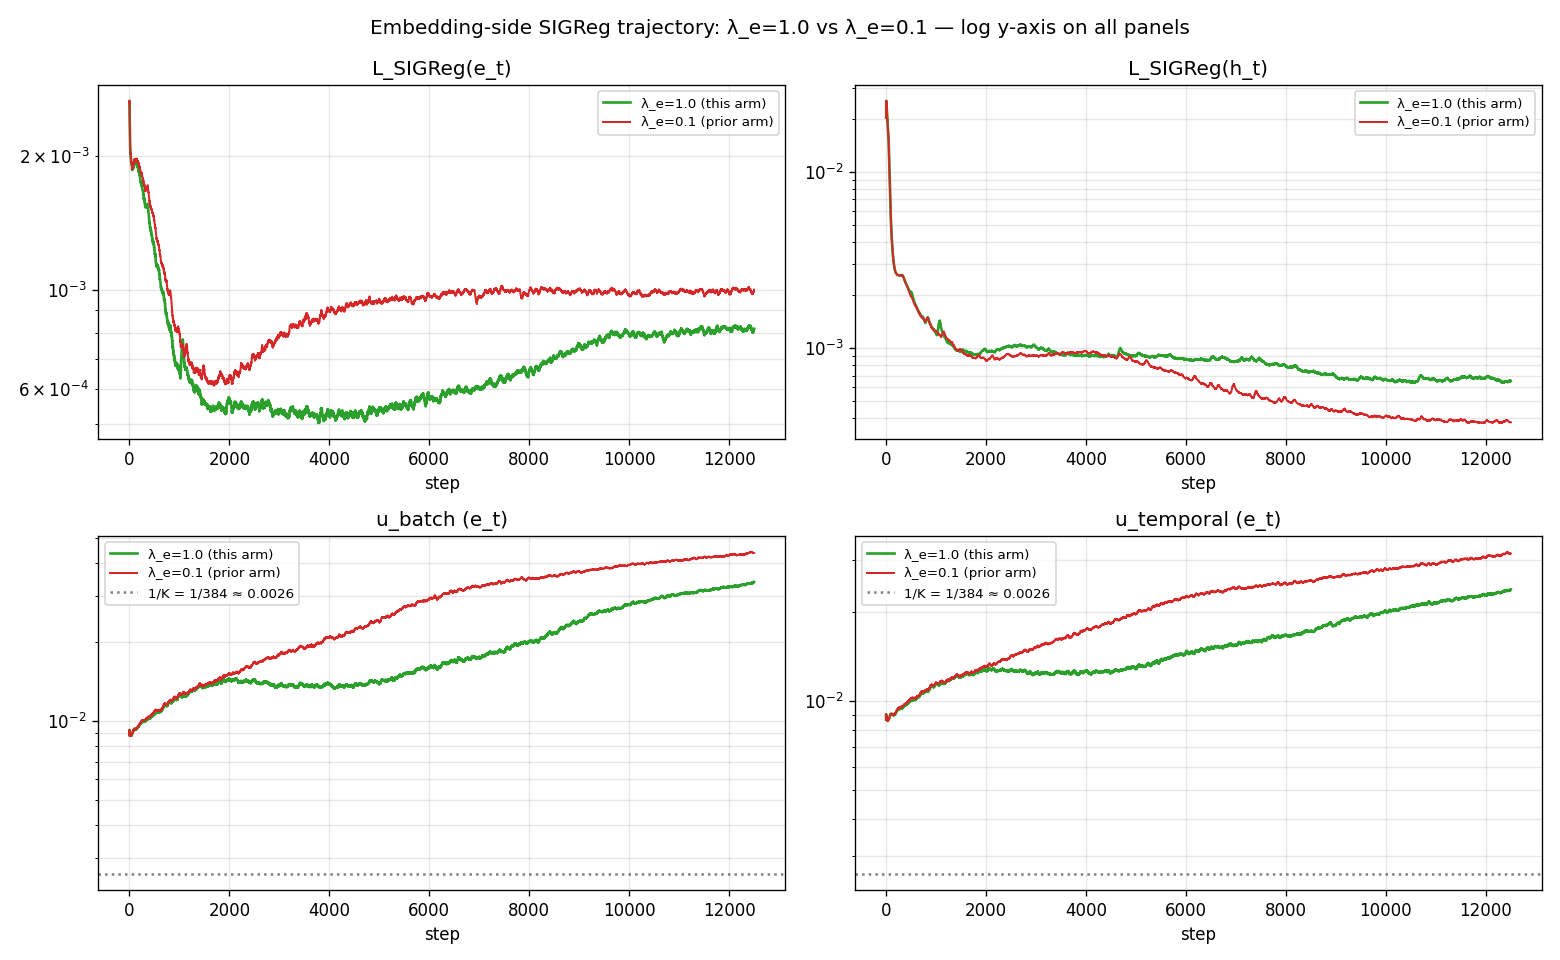
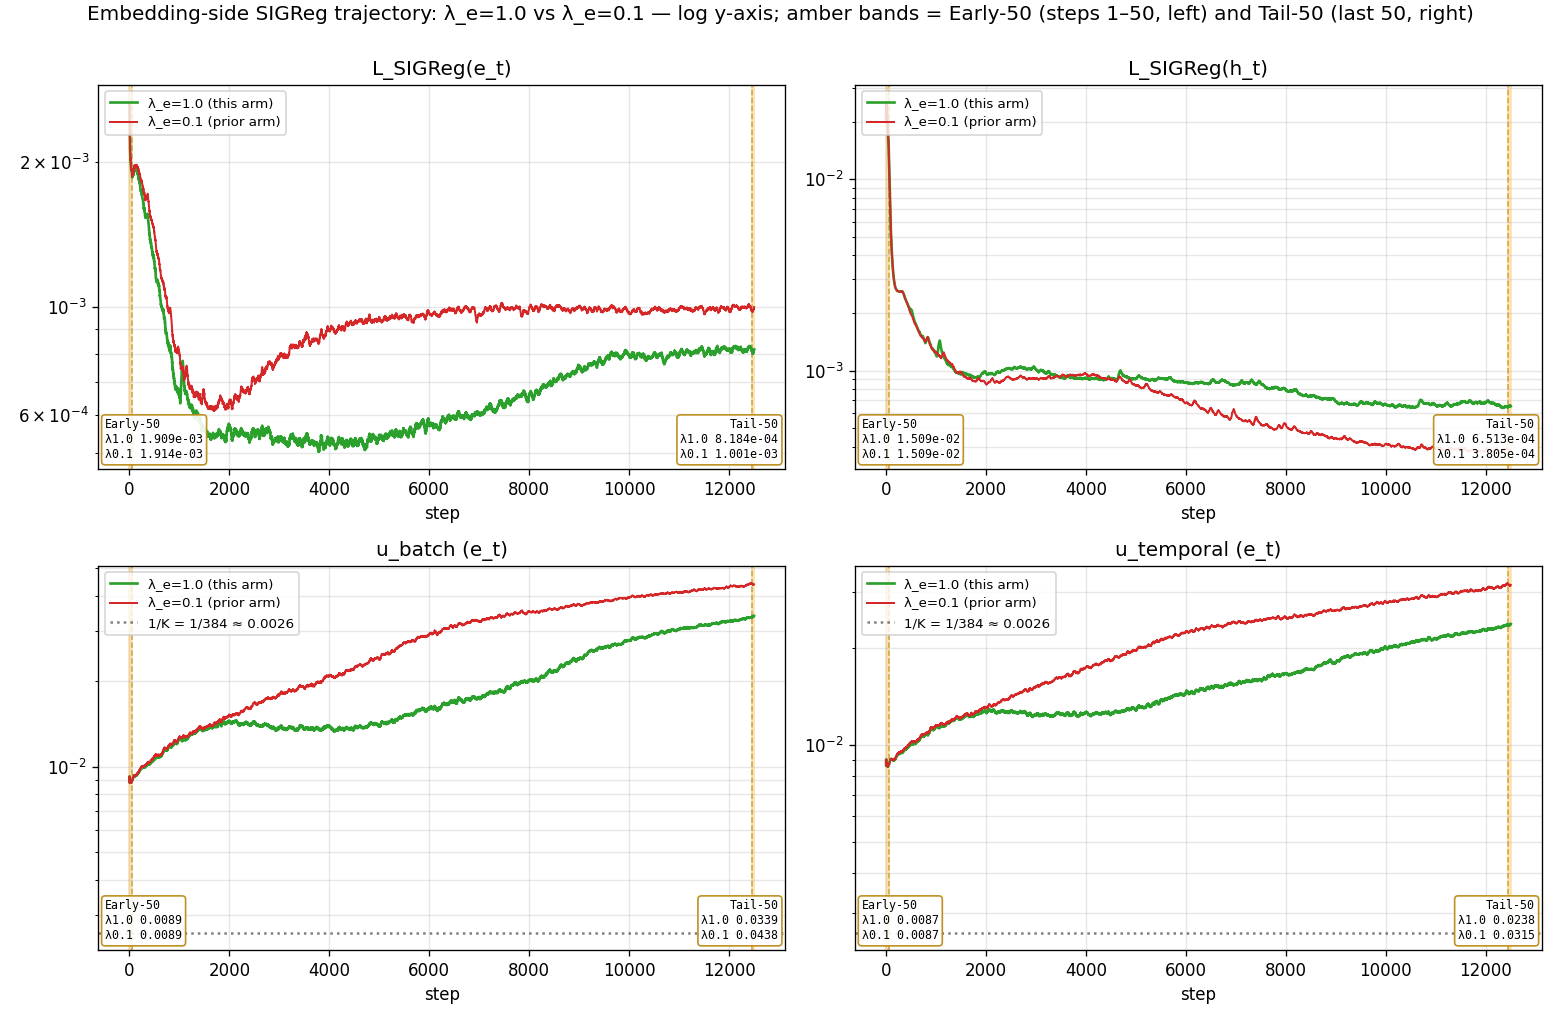
exp(#359): reframe report around time-course facts — Early-50 + Tail-50
Reframe Q1 from endpoint verdict to time-course observation. Add Early-50
(steps 1–50) means alongside the existing Tail-50 means; Annex B now lists
per-arm Early-50 / Tail-50 / Δ_within and the cross-arm shift at each
window. Result section reports facts only (no mechanistic hypothesis):
Early-50 u_batch_e / u_temporal_e / L_SIGReg(e_t) match across arms to
|Δ| < 1e-5; Tail-50 all three end lower under λ_e=1.0 (opposite sign of
the +10× λ_e shift); downstream Δ_GM negative in all 4 cells, all CIs
straddle 0.

build_report.py:
- early_trajectories() + _window_summary() with mean-of-per-step-ratio for
  λ_e·L_SIGReg(e_t)/loss (consistent across Annex B and trajectories.txt).
- plot_sigreg_inspection() adds amber shaded bands + dashed edges marking
  the Early-50 and Tail-50 windows; each panel prints both windows' means
  for both arms so early-vs-late tension is visible at panel resolution.

diff --git a/reports/2026-06-22_lejepa_sigreg_emb10/scripts/build_report.py b/reports/2026-06-22_lejepa_sigreg_emb10/scripts/build_report.py
@@ -214,18 +214,31 @@ def plot_sigreg_inspection(sig10_csv: Path, sig01_csv: Path | None, out: Path):
     """Compare sigreg_e / sigreg_h / u_batch_e / u_temporal_e between the two
     λ_e weights. All four panels use log y-axis so the bottom row's tiny values
     (1/K ≈ 0.0026, u_batch_e ≈ 0.03–0.04) are readable instead of crammed at
-    the baseline of a [0,1] linear axis."""
+    the baseline of a [0,1] linear axis. Shaded bands mark the Early-50
+    (steps 1–50) and Tail-50 (last 50) windows used in Annex B; each panel
+    prints the per-window means so the early-vs-late tension is visible
+    directly on the figure."""
     s10 = pd.read_csv(sig10_csv)
     s01 = pd.read_csv(sig01_csv) if (sig01_csv and sig01_csv.exists()) else None
-    fig, axes = plt.subplots(2, 2, figsize=(13, 8))
+    fig, axes = plt.subplots(2, 2, figsize=(13, 8.5))
     panels = [
-        ("sigreg_e",     "L_SIGReg(e_t)"),
-        ("sigreg_h",     "L_SIGReg(h_t)"),
-        ("u_batch_e",    "u_batch (e_t)"),
-        ("u_temporal_e", "u_temporal (e_t)"),
+        ("sigreg_e",     "L_SIGReg(e_t)",     "{:.3e}"),
+        ("sigreg_h",     "L_SIGReg(h_t)",     "{:.3e}"),
+        ("u_batch_e",    "u_batch (e_t)",     "{:.4f}"),
+        ("u_temporal_e", "u_temporal (e_t)",  "{:.4f}"),
     ]
     K = 384
-    for ax, (col, title) in zip(axes.ravel(), panels):
+    n_window = 50
+    final_step10 = int(s10["step"].iloc[-1])
+    early_lo, early_hi = 1, n_window
+    tail_lo, tail_hi = final_step10 - n_window + 1, final_step10
+    band_color = "#fde0a8"
+    edge_color = "#b8860b"
+    for ax, (col, title, fmt) in zip(axes.ravel(), panels):
+        ax.axvspan(early_lo, early_hi, color=band_color, alpha=0.9, zorder=0)
+        ax.axvspan(tail_lo, tail_hi, color=band_color, alpha=0.9, zorder=0)
+        ax.axvline(early_hi, color=edge_color, ls="--", lw=0.9, alpha=0.7, zorder=1)
+        ax.axvline(tail_lo,  color=edge_color, ls="--", lw=0.9, alpha=0.7, zorder=1)
         ax.plot(s10["step"], s10[col].rolling(50, min_periods=1).mean(),
                 label="λ_e=1.0 (this arm)", color=ARM_COLOR["sigreg10_enc3"], lw=1.6)
         if s01 is not None and col in s01.columns:
@@ -234,10 +247,35 @@ def plot_sigreg_inspection(sig10_csv: Path, sig01_csv: Path | None, out: Path):
         if col in ("u_batch_e", "u_temporal_e"):
             ax.axhline(1.0 / K, color="k", ls=":", alpha=0.5,
                        label=f"1/K = 1/{K} ≈ {1/K:.4f}")
+
+        def _window_mean(df: pd.DataFrame, lo: int, hi: int) -> float:
+            sub = df[(df["step"] >= lo) & (df["step"] <= hi)]
+            return float(sub[col].mean()) if len(sub) and col in sub.columns else float("nan")
+
+        early10 = _window_mean(s10, early_lo, early_hi)
+        tail10  = _window_mean(s10, tail_lo,  tail_hi)
+        early01 = _window_mean(s01, early_lo, early_hi) if s01 is not None else float("nan")
+        tail01  = _window_mean(s01, tail_lo,  tail_hi)  if s01 is not None else float("nan")
+        early_box = (
+            f"Early-50\nλ1.0 {fmt}\nλ0.1 {fmt}".format(early10, early01)
+        )
+        tail_box = (
+            f"Tail-50\nλ1.0 {fmt}\nλ0.1 {fmt}".format(tail10, tail01)
+        )
+        ax.text(0.01, 0.02, early_box, transform=ax.transAxes,
+                ha="left", va="bottom", fontsize=7, family="monospace",
+                bbox=dict(boxstyle="round,pad=0.3", fc="white", ec=edge_color, alpha=0.9))
+        ax.text(0.99, 0.02, tail_box, transform=ax.transAxes,
+                ha="right", va="bottom", fontsize=7, family="monospace",
+                bbox=dict(boxstyle="round,pad=0.3", fc="white", ec=edge_color, alpha=0.9))
         ax.set_yscale("log")
         ax.set_xlabel("step"); ax.set_title(title)
-        ax.legend(fontsize=8); ax.grid(alpha=0.3, which="both")
-    fig.suptitle("Embedding-side SIGReg trajectory: λ_e=1.0 vs λ_e=0.1 — log y-axis on all panels")
+        ax.legend(fontsize=8, loc="upper left"); ax.grid(alpha=0.3, which="both")
+    fig.suptitle(
+        "Embedding-side SIGReg trajectory: λ_e=1.0 vs λ_e=0.1 — log y-axis; "
+        "amber bands = Early-50 (steps 1–50, left) and Tail-50 (last 50, right)",
+        y=0.995,
+    )
     fig.tight_layout(); fig.savefig(out, dpi=120); plt.close(fig)
 
 
@@ -378,74 +416,121 @@ def plot_per_config_delta(
     fig.tight_layout(); fig.savefig(out, dpi=120); plt.close(fig)
 
 
+def _window_summary(window: pd.DataFrame, lam_e: float) -> dict[str, float]:
+    """Window means. `sigreg_e_over_loss_ratio` is the mean of the PER-STEP
+    fraction `sigreg_e / loss` (not the ratio of window means) — this matches
+    the convention previously used in Annex B and is the well-defined per-step
+    contribution of the SIGReg term to total loss. Multiply by λ_e at the
+    consumer to get the loss-fraction `λ_e · L_SIGReg(e_t) / loss`."""
+    return {
+        "u_batch":      float(window["u_batch"].mean()),
+        "u_batch_e":    float(window["u_batch_e"].mean()),
+        "u_temporal":   float(window["u_temporal"].mean()),
+        "u_temporal_e": float(window["u_temporal_e"].mean()),
+        "sigreg_e":     float(window["sigreg_e"].mean()),
+        "sigreg_h":     float(window["sigreg_h"].mean()),
+        "loss":         float(window["loss"].mean()),
+        "sigreg_e_over_loss_ratio": float((window["sigreg_e"] / window["loss"]).mean()),
+    }
+
+
 def final_trajectories(sigreg_csv: Path, n_tail: int = 50) -> dict[str, float]:
     s = pd.read_csv(sigreg_csv)
-    tail = s.tail(n_tail)
-    out = {
-        "u_batch":      float(tail["u_batch"].mean()),
-        "u_batch_e":    float(tail["u_batch_e"].mean()),
-        "u_temporal":   float(tail["u_temporal"].mean()),
-        "u_temporal_e": float(tail["u_temporal_e"].mean()),
-        "sigreg_e":     float(tail["sigreg_e"].mean()),
-        "sigreg_h":     float(tail["sigreg_h"].mean()),
-        "loss":         float(tail["loss"].mean()),
-        "final_step":   int(s["step"].iloc[-1]),
-    }
+    out = _window_summary(s.tail(n_tail), lam_e=1.0)
+    out["final_step"] = int(s["step"].iloc[-1])
+    return out
+
+
+def early_trajectories(sigreg_csv: Path, n_early: int = 50) -> dict[str, float]:
+    s = pd.read_csv(sigreg_csv).head(n_early)
+    out = _window_summary(s, lam_e=1.0)
+    out["early_step_lo"] = int(s["step"].iloc[0])
+    out["early_step_hi"] = int(s["step"].iloc[-1])
     return out
 
 
 def write_trajectories_with_commentary(
-    out_path: Path, traj10: dict[str, float], traj01: dict[str, float] | None,
+    out_path: Path,
+    traj10: dict[str, float], traj01: dict[str, float] | None,
+    early10: dict[str, float], early01: dict[str, float] | None,
     K: int = 384,
 ):
-    """Verdict block + tail-50 trajectory comparison between this arm
-    (λ_e=1.0) and the prior arm (λ_e=0.1). Plain prose: no PR/issue refs,
-    no journey commentary."""
+    """Verdict block + early-50/tail-50 trajectory comparison between this
+    arm (λ_e=1.0) and the prior arm (λ_e=0.1). Plain prose: no PR/issue refs,
+    no mechanistic hypothesis, no journey commentary."""
     lines: list[str] = [
         "# VERDICT (single seed 20260520):",
-        '#   * Q1 "Does the bumped weight wake the embedding-side term?"  → NO.',
-        "#     u_batch_e moved TOWARD 1/K (16.8× → 13.0×), not away. u_temporal_e,",
-        "#     u_batch, u_temporal all also fell. The 10× λ_e bump did not lift e_t",
-        "#     uniformity off the 1/K floor.",
-        '#   * Q2 "Does it move downstream?"  → NO (not at α=0.05).',
-        "#     Point Δ on GM-Rel MASE = this arm − prior arm in [−0.014, −0.007]",
-        "#     across the 4 (head, ckpt) cells; ALL FOUR paired-bootstrap 95% CIs",
-        "#     (B=10 000, N=97 per-config rel-MASE deltas) include zero.",
-        "#     P(Δ<0) in [0.83, 0.95]. Direction is consistent (4/4 cells",
-        "#     point-negative) but magnitudes are not separable from",
-        "#     single-seed paired-config noise.",
+        "#",
+        "# Q  Does stronger embedding-side pressure change the time course of",
+        "#    u_batch_e / u_temporal_e / L_SIGReg(e_t) / λ_e·L_SIGReg(e_t)/loss,",
+        "#    and is that linked to downstream GM-Rel MASE?",
+        "#",
+        "# Facts (this arm λ_e=1.0 vs prior arm λ_e=0.1, single seed 20260520):",
+        "#",
+        "#   Early-50 (steps 1–50):",
+        "#     u_batch_e, u_temporal_e, L_SIGReg(e_t) shift by <1e-5 between arms",
+        "#     (indistinguishable at this resolution). λ_e·L_SIGReg(e_t)/loss",
+        "#     shifts by ~+2.0e-4 (explicit 10× λ_e scaling on near-identical",
+        "#     L_SIGReg(e_t)).",
+        "#",
+        "#   Tail-50 (last 50 of 12 500 steps):",
+        "#     u_batch_e: −0.0099 (this − prior); u_temporal_e: −0.0077;",
+        "#     L_SIGReg(e_t): −1.8e-4; λ_e·L_SIGReg(e_t)/loss: +1.6e-4;",
+        "#     loss: +0.30. End-state direction on u_batch_e / u_temporal_e /",
+        "#     L_SIGReg(e_t) is opposite the small (≈0) early-window shift —",
+        "#     they end LOWER under the 10× weight, not higher.",
+        "#",
+        "#   Downstream (GIFT-Eval full-97, head-matched, paired bootstrap B=10 000):",
+        "#     Point Δ_GM (λ_e=1.0 − λ_e=0.1) is negative in all 4 (head, ckpt)",
+        "#     cells, range [−0.014, −0.007]; all 4 paired-bootstrap 95% CIs",
+        "#     include zero; P(Δ<0) in [0.83, 0.95].",
         "#",
     ]
-    if traj01:
-        u_b_e_10 = traj10["u_batch_e"]; u_b_e_01 = traj01["u_batch_e"]
-        u_t_e_10 = traj10["u_temporal_e"]; u_t_e_01 = traj01["u_temporal_e"]
-        u_b_10 = traj10["u_batch"]; u_b_01 = traj01["u_batch"]
-        u_t_10 = traj10["u_temporal"]; u_t_01 = traj01["u_temporal"]
-        sr_e_10 = traj10["sigreg_e"]; sr_e_01 = traj01["sigreg_e"]
-        sr_h_10 = traj10["sigreg_h"]; sr_h_01 = traj01["sigreg_h"]
-        loss_10 = traj10["loss"]; loss_01 = traj01["loss"]
+    if traj01 and early01:
+        u_b_e_10  = traj10["u_batch_e"];    u_b_e_01  = traj01["u_batch_e"]
+        u_t_e_10  = traj10["u_temporal_e"]; u_t_e_01  = traj01["u_temporal_e"]
+        u_b_10    = traj10["u_batch"];      u_b_01    = traj01["u_batch"]
+        u_t_10    = traj10["u_temporal"];   u_t_01    = traj01["u_temporal"]
+        sr_e_10   = traj10["sigreg_e"];     sr_e_01   = traj01["sigreg_e"]
+        sr_h_10   = traj10["sigreg_h"];     sr_h_01   = traj01["sigreg_h"]
+        loss_10   = traj10["loss"];         loss_01   = traj01["loss"]
+        eu_b_e_10 = early10["u_batch_e"];    eu_b_e_01 = early01["u_batch_e"]
+        eu_t_e_10 = early10["u_temporal_e"]; eu_t_e_01 = early01["u_temporal_e"]
+        esr_e_10  = early10["sigreg_e"];     esr_e_01  = early01["sigreg_e"]
+        eloss_10  = early10["loss"];         eloss_01  = early01["loss"]
         lam_e_10, lam_e_01 = 1.0, 0.1
-        ratio_loss_10 = lam_e_10 * sr_e_10 / loss_10
-        ratio_loss_01 = lam_e_01 * sr_e_01 / loss_01
+        # Mean-of-per-step-ratio (matches Annex B convention).
+        ratio_loss_10  = lam_e_10 * traj10["sigreg_e_over_loss_ratio"]
+        ratio_loss_01  = lam_e_01 * traj01["sigreg_e_over_loss_ratio"]
+        eratio_loss_10 = lam_e_10 * early10["sigreg_e_over_loss_ratio"]
+        eratio_loss_01 = lam_e_01 * early01["sigreg_e_over_loss_ratio"]
         lines += [
-            "# Tail-50 trajectory facts (this arm SIGReg λ_e=1.0 vs prior arm SIGReg λ_e=0.1)",
+            "# Early-50 vs Tail-50 trajectory means",
             "#",
-            "# u_batch_e direction:",
-            f"#   u_batch_e:     prior λ_e=0.1 → {u_b_e_01:.4f} ≈ {u_b_e_01 * K:.1f}× 1/K  ",
-            f"#                  this  λ_e=1.0 → {u_b_e_10:.4f} ≈ {u_b_e_10 * K:.1f}× 1/K   "
-            "(FELL — moved TOWARD 1/K, not away)",
-            f"#   u_temporal_e:  prior → {u_t_e_01:.4f}  →  this → {u_t_e_10:.4f}   (also fell)",
-            f"#   u_batch:       prior → {u_b_01:.4f}  →  this → {u_b_10:.4f}     (also fell)",
-            f"#   u_temporal:    prior → {u_t_01:.4f}  →  this → {u_t_10:.4f}     (also fell)",
+            "# u_batch_e (this − prior):",
+            f"#   Early-50:  this {eu_b_e_10:.6f} | prior {eu_b_e_01:.6f} | Δ {eu_b_e_10 - eu_b_e_01:+.2e}",
+            f"#   Tail-50:   this {u_b_e_10:.6f} | prior {u_b_e_01:.6f} | Δ {u_b_e_10 - u_b_e_01:+.4f}",
+            f"#              (in 1/K units: this {u_b_e_10*K:.1f}× | prior {u_b_e_01*K:.1f}×)",
             "#",
-            "# SIGReg λ_e · sigreg_e / total-loss fraction:",
-            f"#   prior λ_e=0.1:  λ_e · sigreg_e / loss = {ratio_loss_01:.2e}",
-            f"#   this  λ_e=1.0:  λ_e · sigreg_e / loss = {ratio_loss_10:.2e}   "
-            f"(~{ratio_loss_10 / ratio_loss_01:.1f}× under a 10× λ_e bump because",
-            f"#                  sigreg_e itself fell {sr_e_01:.2e} → {sr_e_10:.2e} — partial self-suppression).",
+            "# u_temporal_e (this − prior):",
+            f"#   Early-50:  this {eu_t_e_10:.6f} | prior {eu_t_e_01:.6f} | Δ {eu_t_e_10 - eu_t_e_01:+.2e}",
+            f"#   Tail-50:   this {u_t_e_10:.6f} | prior {u_t_e_01:.6f} | Δ {u_t_e_10 - u_t_e_01:+.4f}",
             "#",
-            f"#   sigreg_h tail-50: prior → {sr_h_01:.2e}  →  this → {sr_h_10:.2e}",
-            f"#   loss     tail-50: prior → {loss_01:.4f}    →  this → {loss_10:.4f}",
+            "# L_SIGReg(e_t) (this − prior):",
+            f"#   Early-50:  this {esr_e_10:.3e} | prior {esr_e_01:.3e} | Δ {esr_e_10 - esr_e_01:+.2e}",
+            f"#   Tail-50:   this {sr_e_10:.3e} | prior {sr_e_01:.3e} | Δ {sr_e_10 - sr_e_01:+.2e}",
+            "#",
+            "# λ_e · L_SIGReg(e_t) / loss (this − prior):",
+            f"#   Early-50:  this {eratio_loss_10:.3e} | prior {eratio_loss_01:.3e} | Δ {eratio_loss_10 - eratio_loss_01:+.2e}",
+            f"#   Tail-50:   this {ratio_loss_10:.3e} | prior {ratio_loss_01:.3e} | Δ {ratio_loss_10 - ratio_loss_01:+.2e}",
+            f"#              (Tail-50 ratio of ratios this/prior = {ratio_loss_10/ratio_loss_01:.2f}×;",
+            f"#               under a 10× λ_e bump because L_SIGReg(e_t) self-suppressed)",
+            "#",
+            "# Other tail-50 quantities (this − prior):",
+            f"#   u_batch (h_t):    this {u_b_10:.4f}  prior {u_b_01:.4f}  Δ {u_b_10 - u_b_01:+.4f}",
+            f"#   u_temporal (h_t): this {u_t_10:.4f}  prior {u_t_01:.4f}  Δ {u_t_10 - u_t_01:+.4f}",
+            f"#   L_SIGReg(h_t):    this {sr_h_10:.3e}  prior {sr_h_01:.3e}  Δ {sr_h_10 - sr_h_01:+.2e}",
+            f"#   loss:             this {loss_10:.4f}  prior {loss_01:.4f}  Δ {loss_10 - loss_01:+.4f}",
             "",
             "# Raw tail-50 means below (key<TAB>value).",
         ]
@@ -489,10 +574,13 @@ if __name__ == "__main__":
         ci_rows=ci_rows, out=plots / "per_config_delta.png",
     )
 
-    traj_new = final_trajectories(sig10_csv)
-    traj_ref = final_trajectories(args.sig01_csv) if args.sig01_csv.exists() else None
+    traj_new   = final_trajectories(sig10_csv)
+    traj_ref   = final_trajectories(args.sig01_csv) if args.sig01_csv.exists() else None
+    early_new  = early_trajectories(sig10_csv)
+    early_ref  = early_trajectories(args.sig01_csv) if args.sig01_csv.exists() else None
     write_trajectories_with_commentary(
-        results / "final_trajectories.txt", traj_new, traj_ref,
+        results / "final_trajectories.txt",
+        traj_new, traj_ref, early_new, early_ref,
     )
     print("FINAL trajectories (last 50 rows) — λ_e=1.0:")
     for k, v in traj_new.items():
@@ -500,6 +588,13 @@ if __name__ == "__main__":
     if traj_ref is not None:
         print("\nReference trajectories (last 50 rows) — λ_e=0.1 (prior arm):")
         for k, v in traj_ref.items():
+            print(f"  {k}: {v}")
+    print("\nEARLY trajectories (first 50 rows) — λ_e=1.0:")
+    for k, v in early_new.items():
+        print(f"  {k}: {v}")
+    if early_ref is not None:
+        print("\nReference EARLY trajectories (first 50 rows) — λ_e=0.1 (prior arm):")
+        for k, v in early_ref.items():
             print(f"  {k}: {v}")
     print(f"\nrows in gm_table: {len(rows)}")
     for r in rows:

diff --git a/reports/2026-06-22_lejepa_sigreg_emb10/lejepa_sigreg_emb10.md b/reports/2026-06-22_lejepa_sigreg_emb10/lejepa_sigreg_emb10.md
@@ -4,7 +4,7 @@
 
 Following the prior arm (SIGReg + EMA-target, B=512, `λ_e=λ_h=0.1`), where the embedding-side regulariser contributed `λ_e · L_SIGReg(e_t) / loss ≈ 2.4e-5` and `u_batch_e` finished at ≈ 16.8 · 1/K:
 
-1. Does setting `λ_e=1.0` (`λ_h` unchanged at 0.1) move `u_batch_e` off the 1/K floor?
+1. Does setting `λ_e=1.0` (`λ_h` unchanged at 0.1) change the **time course** of `u_batch_e`, `u_temporal_e`, `L_SIGReg(e_t)`, and the loss-fraction `λ_e · L_SIGReg(e_t) / loss` — measured by their Early-50 (first 50 logged training steps) and Tail-50 (last 50) means?
 2. Does it move GIFT-Eval full-97 GM-Rel MASE in the four (q-head depth, backbone checkpoint) cells, against the `λ_e=λ_h=0.1` arm with the same backbone, dataset, and seed?
 
 ## Vocabulary
@@ -25,9 +25,23 @@ Following the prior arm (SIGReg + EMA-target, B=512, `λ_e=λ_h=0.1`), where the
 
 ## Result
 
-**Q1: NO.** Tail-50 `u_batch_e` fell from 16.8 · 1/K to 13.0 · 1/K under the 10× weight bump — toward the 1/K floor, not away. The 10× `λ_e` translated to only a ~7.6× rise in `λ_e · L_SIGReg(e_t) / loss` because `L_SIGReg(e_t)` itself partially self-suppressed (1.00e-3 → 8.18e-4) and total loss rose 4.25 → 4.55.
+**Q1 — time course (this arm − prior arm, single seed 20260520).**
 
-**Q2: NO at α=0.05.** Point Δ_GM (`λ_e=1.0` − `λ_e=0.1`) is negative in all 4 cells (range `[−0.014, −0.007]`); all 4 paired-bootstrap 95% CIs include zero (P(Δ<0) range `[0.83, 0.95]`).
+| quantity | Early-50 Δ (steps 1–50) | Tail-50 Δ (last 50) |
+| --- | ---: | ---: |
+| `u_batch_e` | −4.1e-6 | −0.0099 |
+| `u_temporal_e` | −3.4e-6 | −0.0077 |
+| `L_SIGReg(e_t)` | −5.6e-6 | −1.8e-4 |
+| `λ_e · L_SIGReg(e_t) / loss` | +2.0e-4 | +1.6e-4 |
+| total `loss` | +0.002 | +0.30 |
+
+Early-50: `u_batch_e`, `u_temporal_e`, and `L_SIGReg(e_t)` match across arms to within `|Δ| < 1e-5`. `λ_e · L_SIGReg(e_t) / loss` shifts +2.0e-4 (the explicit 10× `λ_e` scales a near-identical `L_SIGReg(e_t) / loss`: 2.23e-5 → 2.22e-4).
+
+Tail-50: `u_batch_e` shifts from 16.8·1/K to 13.0·1/K (Δ = −0.0099), `u_temporal_e` from 0.0315 to 0.0238 (Δ = −0.0077), and `L_SIGReg(e_t)` from 1.00e-3 to 8.18e-4 (Δ = −1.8e-4). All three end-state shifts have the opposite sign of the +10× shift in `λ_e`. `λ_e · L_SIGReg(e_t) / loss` ends at 1.80e-4 vs 2.36e-5 (this/prior = 7.6×): `L_SIGReg(e_t)` ends 18% lower in this arm and `loss` ends 4.25 → 4.55 (+7%).
+
+**Q2 — downstream GIFT-Eval full-97 GM-Rel MASE (this arm − prior arm).**
+
+Point Δ_GM is negative in all 4 (head, ckpt) cells (range `[−0.014, −0.007]`); all 4 paired-bootstrap 95% CIs include zero (P(Δ<0) range `[0.83, 0.95]`). At α=0.05 the downstream improvement is not separable from single-seed paired-config noise.
 
 **Caveat: single seed (20260520); the CIs are over the 97 per-config rel-MASE values, not over seeds.**
 
@@ -35,7 +49,7 @@ Following the prior arm (SIGReg + EMA-target, B=512, `λ_e=λ_h=0.1`), where the
 
 ![Per-config rel-MASE deltas (λ_e=1.0 − λ_e=0.1) across the 97 GIFT-Eval configs (green scatter, per panel = (head, ckpt)); black diamond = absolute Δ_GM with paired-bootstrap 95% CI on the log-ratio of GMs.](plots/per_config_delta.png)
 
-![Embedding-side SIGReg trajectories on log y-axis: L_SIGReg(e_t), L_SIGReg(h_t), u_batch (e_t), u_temporal (e_t) for λ_e=1.0 (green) vs λ_e=0.1 (red); dotted line at 1/K ≈ 0.00260.](plots/sigreg_e_inspection.png)
+![Embedding-side SIGReg trajectories on log y-axis: L_SIGReg(e_t), L_SIGReg(h_t), u_batch (e_t), u_temporal (e_t) for λ_e=1.0 (green) vs λ_e=0.1 (red); amber dashed lines mark Early-50 (steps 1–50) and Tail-50 (last 50) windows; per-panel boxes list each window's mean for both arms; dotted line at 1/K ≈ 0.00260.](plots/sigreg_e_inspection.png)
 
 ### GM table
 
@@ -73,20 +87,48 @@ Each backbone checkpoint (`best` = best train-loss, `last` = step 12 500) trains
 - **Bootstrap.** Per-cell paired bootstrap on the 97 per-config rel-MASE values, B=10 000, seed 20260622, statistic = `mean(log(rel_A) − log(rel_B))`, converted back to absolute GM-Rel MASE scale. Cells in `results/bootstrap_ci.csv`.
 - **Colour map.** grey = enc3+CPC B=1024; blue = EMA-target enc3+CPC B=1024; red = SIGReg `λ_e=λ_h=0.1` B=512; green = SIGReg `λ_e=1.0, λ_h=0.1` B=512.
 
-### B. Tail-50 trajectory means
+### B. Trajectory means — Early-50, Tail-50, and within-arm delta
 
-50-step rolling means over the last 50 of 12 500 training steps:
+50-step means over the first 50 (Early-50) and the last 50 of 12 500 (Tail-50) training steps; `Δ_within = Tail−Early` per arm.
 
-| quantity | `λ_e=0.1` (prior arm) | `λ_e=1.0` (this arm) |
+**`λ_e=0.1` (prior arm)**
+
+| quantity | Early-50 | Tail-50 | Δ_within (Tail−Early) |
+| --- | ---: | ---: | ---: |
+| `u_batch_e` | 0.008885 | 0.0438 (≈ 16.8 · 1/K) | +0.0349 |
+| `u_temporal_e` | 0.008686 | 0.0315 | +0.0228 |
+| `u_batch` (`h_t`) | 0.0395 | 0.7964 | +0.7569 |
+| `u_temporal` (`h_t`) | 0.0219 | 0.6194 | +0.5975 |
+| `L_SIGReg(e_t)` | 1.914e-3 | 1.001e-3 | −9.14e-4 |
+| `L_SIGReg(h_t)` | 1.509e-2 | 3.805e-4 | −1.47e-2 |
+| `λ_e · L_SIGReg(e_t) / loss` | 2.23e-5 | 2.36e-5 | +1.2e-6 |
+| total `loss` | 10.4165 | 4.2478 | −6.17 |
+
+**`λ_e=1.0` (this arm)**
+
+| quantity | Early-50 | Tail-50 | Δ_within (Tail−Early) |
+| --- | ---: | ---: | ---: |
+| `u_batch_e` | 0.008881 | 0.0339 (≈ 13.0 · 1/K) | +0.0250 |
+| `u_temporal_e` | 0.008683 | 0.0238 | +0.0151 |
+| `u_batch` (`h_t`) | 0.0395 | 0.7754 | +0.7359 |
+| `u_temporal` (`h_t`) | 0.0219 | 0.5761 | +0.5542 |
+| `L_SIGReg(e_t)` | 1.909e-3 | 8.184e-4 | −1.09e-3 |
+| `L_SIGReg(h_t)` | 1.509e-2 | 6.513e-4 | −1.44e-2 |
+| `λ_e · L_SIGReg(e_t) / loss` | 2.22e-4 | 1.80e-4 | −4.23e-5 |
+| total `loss` | 10.4186 | 4.5490 | −5.87 |
+
+**Cross-arm shift (this − prior) at each window**
+
+| quantity | Early-50 Δ | Tail-50 Δ |
 | --- | ---: | ---: |
-| `u_batch_e` | 0.0438 (≈ 16.8 · 1/K) | 0.0339 (≈ 13.0 · 1/K) |
-| `u_temporal_e` | 0.0315 | 0.0238 |
-| `u_batch` (`h_t`) | 0.7964 | 0.7754 |
-| `u_temporal` (`h_t`) | 0.6194 | 0.5761 |
-| `L_SIGReg(e_t)` | 1.001e-3 | 8.184e-4 |
-| `L_SIGReg(h_t)` | 3.805e-4 | 6.513e-4 |
-| `λ_e · L_SIGReg(e_t) / loss` | 2.36e-5 | 1.80e-4 |
-| total `loss` | 4.2478 | 4.5490 |
+| `u_batch_e` | −4.1e-6 | −0.00991 |
+| `u_temporal_e` | −3.4e-6 | −0.00769 |
+| `u_batch` (`h_t`) | −5.0e-6 | −0.02098 |
+| `u_temporal` (`h_t`) | −1.0e-6 | −0.04330 |
+| `L_SIGReg(e_t)` | −5.6e-6 | −1.82e-4 |
+| `L_SIGReg(h_t)` | +2.8e-6 | +2.71e-4 |
+| `λ_e · L_SIGReg(e_t) / loss` | +2.00e-4 | +1.56e-4 |
+| total `loss` | +0.0020 | +0.3011 |
 
 `1/K` = 1/384 ≈ 0.00260.
 
